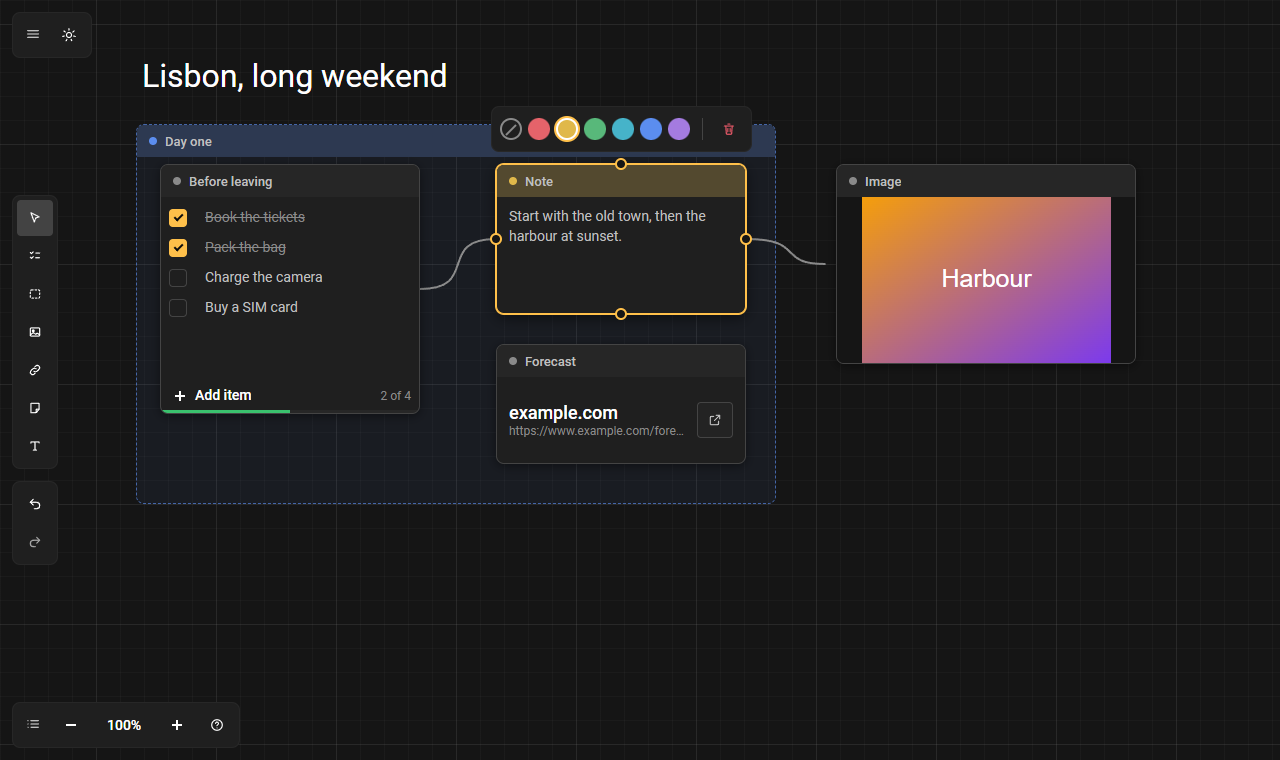
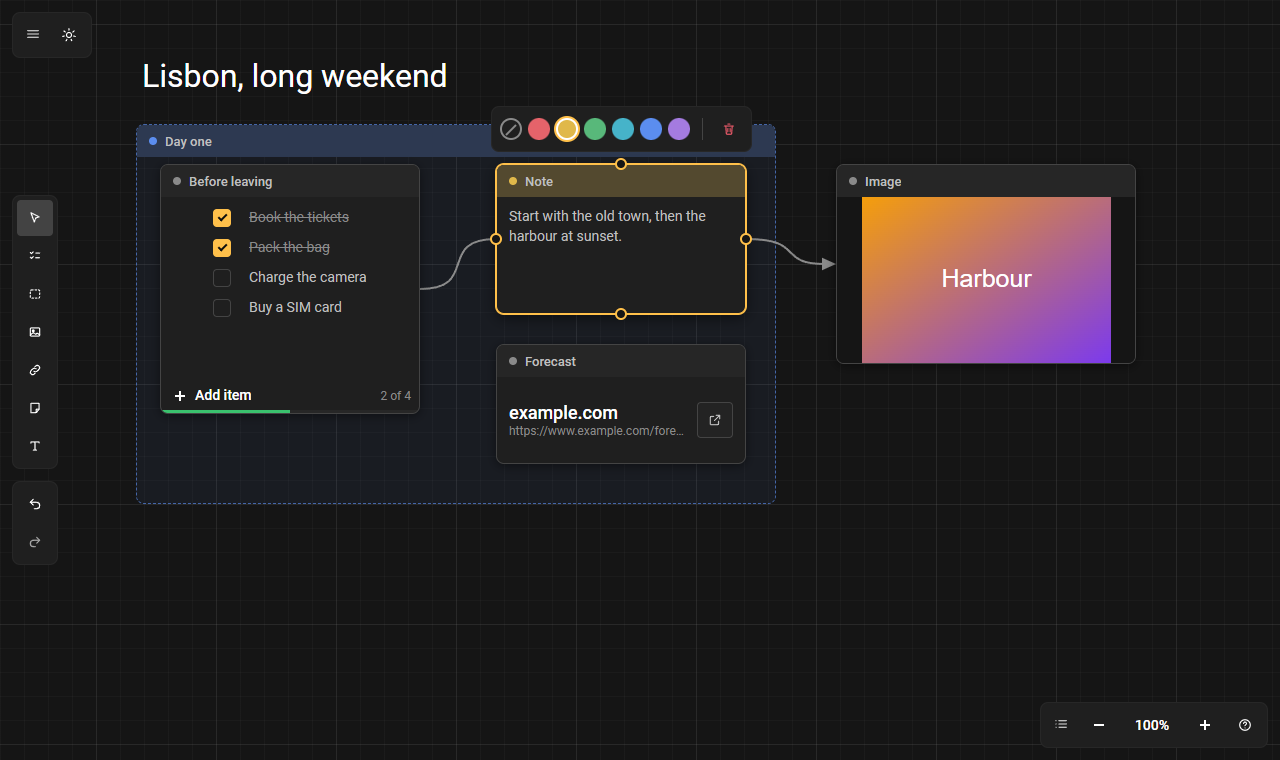
Fix link arrowheads, text refit, move the zoom bar, drop a lone separator
- arrowheads were invisible (taoux CSS specificity, fixed in taoux 233f583) and
  the line stopped short of the node
- toggling Large text refits the height of a Text node
- the zoom bar moves to the bottom right
- the action bar of a point on a link has no separator before Delete
- README screenshots retaken

Changed region(s): [[0.125, 0.2724, 0.2812, 0.4237], [0.875, 0.9382, 0.9062, 0.9684], [0.0938, 0.9382, 0.125, 0.9684]]

diff --git a/src/editor/components/ZoomBar.vue b/src/editor/components/ZoomBar.vue
@@ -7,8 +7,8 @@ import { useEditor } from '../store';
 import HelpPanel from './HelpPanel.vue';
 
 /**
- * Панель масштаба внизу слева: меню «Вид», «−», процент (клик = 100%), «+» и справка. Всё из реестра команд.
- * The zoom bar at the bottom left: the "View" menu, "−", the percentage (a click = 100%), "+" and help.
+ * Панель масштаба внизу справа: меню «Вид», «−», процент (клик = 100%), «+» и справка. Всё из реестра команд.
+ * The zoom bar at the bottom right: the "View" menu, "−", the percentage (a click = 100%), "+" and help.
  * All of it comes from the command registry.
  */
 const editor = useEditor();
@@ -24,7 +24,7 @@ const viewMenu = useMenu(['view.fit', 'view.zoom100', '-', 'view.grid', 'view.gu
     <div class="zoom" @pointerdown.stop @wheel.stop @contextmenu.prevent>
         <TaoToolbar :label="t('view.zoomBar')">
             <TaoToolbarGroup>
-                <TaoDropdownMenu :items="viewMenu" placement="top-start" :menu-label="t('view.options')" @select="cmd.run">
+                <TaoDropdownMenu :items="viewMenu" placement="top-end" :menu-label="t('view.options')" @select="cmd.run">
                     <template #icon><TaoIcon name="view-list" /></template>
                 </TaoDropdownMenu>
             </TaoToolbarGroup>
@@ -49,7 +49,7 @@ const viewMenu = useMenu(['view.fit', 'view.zoom100', '-', 'view.grid', 'view.gu
 .zoom {
     position: absolute;
     bottom: max(12px, env(safe-area-inset-bottom));
-    left: max(12px, env(safe-area-inset-left));
+    right: max(12px, env(safe-area-inset-right));
     z-index: 10;
 }
 </style>

diff --git a/src/editor/components/ContextBar.vue b/src/editor/components/ContextBar.vue
@@ -185,7 +185,8 @@ function setArrow(value: unknown) {
                 </TaoToolbarGroup>
             </template>
 
-            <TaoToolbarSeparator />
+            <!-- Разделитель нужен, только если слева от «Удалить» что-то есть (у точки на связи там пусто). -->
+            <TaoToolbarSeparator v-if="canColor || editor.nodeActions.length || nodeCount > 1 || link" />
             <TaoToolbarGroup>
                 <TaoButton variant="ghost" tone="danger" :icon="cmd.icon('edit.delete')" :aria-label="cmd.label('edit.delete')" :shortcut="cmd.shortcutLabel('edit.delete')" @click="cmd.run('edit.delete')" />
             </TaoToolbarGroup>

diff --git a/src/nodes/text/TextNode.vue b/src/nodes/text/TextNode.vue
@@ -43,7 +43,8 @@ watch(
     },
     { immediate: true },
 );
-watch(() => props.data.text, () => nextTick(fit));
+// Смена размера шрифта («Крупный текст») меняет высоту текста, а размер самой ноды при этом не меняется: ResizeObserver молчит.
+watch(() => [props.data.text, props.data.large], () => nextTick(fit));
 
 // Ширину меняют растягиванием: тогда строки переносятся иначе, и высота пересчитывается.
 let observer: ResizeObserver | null = null;

diff --git a/README.ru.md b/README.ru.md
@@ -62,7 +62,7 @@ npm run screenshot  # docs/media/*.png для README, нужен Chrome или E
 
 - **Слева:** «Выбор», по инструменту на каждый тип ноды, отмена и повтор.
 - **Над выделением** (на сенсоре и узком экране закреплена внизу): цвет (6 цветов и «без цвета»; красит рамку и полосу, у группы ещё и заливку, у текста буквы), свойства типа ноды (у чеклиста «Скрыть выполненные», у текста «Крупный текст»), выравнивание по краям и центрам, распределение с равными промежутками (от трёх нод), у связи вид, «Развернуть» и «Выпрямить», «Удалить». Действует на все выделенные.
-- **Внизу слева:** масштаб, меню вида («Показать всё», 100%, сетка) и справка «?» со списком жестов и клавиш.
+- **Внизу справа:** масштаб, меню вида («Показать всё», 100%, сетка) и справка «?» со списком жестов и клавиш.
 - **Вверху слева:** меню ☰ (файл: «Новое», «Открыть» `Ctrl+O`, «Сохранить» `Ctrl+S`; тема светлая или тёмная; язык) и быстрый переключатель темы.
 
 **Контекстное меню** (правый клик по ноде, связи или пустому месту): у ноды «Копировать» `Ctrl+C`, «Вырезать» `Ctrl+X`, «Дублировать» `Ctrl+D` (с вложенным в группу и связями между копиями, копии выделяются), «На передний план» `]`, «На задний план» `[`, переключатели типа ноды, цвет, выравнивание (от двух нод), «Удалить»; у связи вид, «Развернуть», «Выпрямить»; у пустого места «Вставить» `Ctrl+V` (вставляемое встаёт центром в точку клика), «Выбрать всё» `Ctrl+A`, «Добавить ноду…» (палитра), «Показать всё». Нода вне выделения при правом клике становится выделением, нода внутри выделения оставляет его, и меню действует на всё выделенное. Правая кнопка, которой водили, как и раньше двигает холст.

diff --git a/README.md b/README.md
@@ -62,7 +62,7 @@ The title in the strip (of a note, group, checklist, link) is edited with a doub
 
 - **Left:** "Select", a tool for every node type, undo and redo.
 - **Over the selection** (pinned at the bottom on touch and on a narrow screen): colour (6 colours and "no colour"; it tints the frame and the strip, the fill of a group, the letters of a text), the properties of the node type ("Hide completed" for a checklist, "Large text" for a text), alignment by edges and centres, distribution with equal gaps (three or more nodes), for a link its style, "Reverse" and "Straighten", "Delete". It acts on everything selected.
-- **Bottom left:** zoom, the view menu ("Zoom to fit", 100%, grid) and the help "?" with a list of gestures and keys.
+- **Bottom right:** zoom, the view menu ("Zoom to fit", 100%, grid) and the help "?" with a list of gestures and keys.
 - **Top left:** the ☰ menu (file: "New", "Open" `Ctrl+O`, "Save" `Ctrl+S`; light or dark theme; language) and a quick theme switch.
 
 **Context menu** (a right click on a node, a link or an empty place): for a node "Copy" `Ctrl+C`, "Cut" `Ctrl+X`, "Duplicate" `Ctrl+D` (with what lies inside a group and the links between the copies; the copies get selected), "Bring to front" `]`, "Send to back" `[`, the toggles of the node type, colour, alignment (two or more nodes), "Delete"; for a link its style, "Reverse", "Straighten"; for an empty place "Paste" `Ctrl+V` (what is pasted is centred on the click), "Select all" `Ctrl+A`, "Add node…" (the palette), "Zoom to fit". A node outside the selection becomes the selection on a right click, a node inside it keeps it, and the menu acts on everything selected. A right button that was dragged pans as before.
